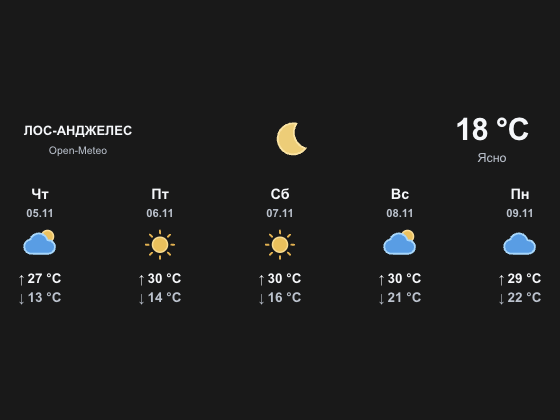
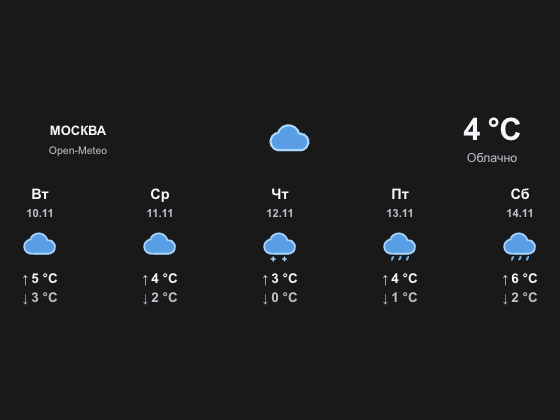
Update weather defaults and direct-view theme contrast

diff --git a/docs/school-planner/weather/index.html b/docs/school-planner/weather/index.html
@@ -7,9 +7,11 @@
   <title>Погода</title>
   <style>
     * { box-sizing: border-box; }
-    /* Night-only text, with a transparent iframe canvas rather than a black box. */
-    :root { color-scheme: normal; --ink: #f5f7fa; --muted: #bac3cf; }
+    /* The embed remains transparent. Direct visits supply their own matching background. */
+    :root { color-scheme: normal; --ink: #f5f7fa; --muted: #bac3cf; --standalone-bg: #191919; }
+    :root[data-theme="light"] { --ink: #262626; --muted: #59636e; --standalone-bg: #fff; }
     html, body { margin: 0; width: 100%; height: 100%; min-width: 0; overflow: hidden; background: transparent; }
+    html[data-standalone] { background-color: var(--standalone-bg); }
     body { color: var(--ink); font-family: Arial, Helvetica, sans-serif;
       -webkit-font-smoothing: antialiased; }
     .fit-viewport { position: fixed; inset: 0; padding: 12px 8px; overflow: hidden; }
@@ -74,10 +76,10 @@
     </defs>
   </svg>
   <div class="fit-viewport" data-fit-viewport>
-  <main class="weather" aria-label="Погода в Лос-Анджелесе" data-status="loading"
+  <main class="weather" aria-label="Погода: Москва" data-status="loading"
     data-fit-content data-fit-min-width="344" data-fit-fill-width>
     <div class="current">
-      <div class="location"><div class="city" data-city>Лос-Анджелес</div>
+      <div class="location"><div class="city" data-city>Москва</div>
         <a class="source" href="https://open-meteo.com/" target="_blank" rel="noopener noreferrer"
           title="Данные погоды: Open-Meteo · CC BY 4.0" aria-label="Данные погоды: Open-Meteo">Open-Meteo</a></div>
       <div class="current-icon" data-current-icon aria-hidden="true"></div>
@@ -90,9 +92,13 @@
   <script>
     // Set the natural width before the shared deferred fitting script runs.
     {
+      const params = new URLSearchParams(location.search);
+      const root = document.documentElement;
+      if (params.get('theme') === 'light') root.dataset.theme = 'light';
+      if (window.self === window.top) root.dataset.standalone = '';
       const host = document.querySelector('.weather');
-      const count = new URLSearchParams(location.search).get('forecast_days') === '7' ? 7 : 5;
-      if (count === 7) document.documentElement.dataset.sevenDay = '';
+      const count = params.get('forecast_days') === '7' ? 7 : 5;
+      if (count === 7) root.dataset.sevenDay = '';
       host.dataset.forecastDays = String(count);
       host.dataset.fitMinWidth = count === 7 ? '484' : '344';
       host.style.width = `${host.dataset.fitMinWidth}px`;
@@ -109,18 +115,15 @@
         const n = Number(params.get(key));
         return Number.isFinite(n) && n >= min && n <= max ? n : fallback;
       };
-      const latitude = coordinate('lat', 34.0522, -90, 90);
-      const longitude = coordinate('lon', -118.2437, -180, 180);
-      const city = (params.get('city') || 'Лос-Анджелес').trim().slice(0, 70) || 'Лос-Анджелес';
-      let timeZone = params.get('tz') || 'America/Los_Angeles';
-      try { new Intl.DateTimeFormat('ru', {timeZone}).format(); } catch { timeZone = 'America/Los_Angeles'; }
+      const defaultCity = 'Москва';
+      const defaultTimeZone = 'Europe/Moscow';
+      const latitude = coordinate('lat', 55.75204, -90, 90);
+      const longitude = coordinate('lon', 37.61781, -180, 180);
+      const city = (params.get('city') || defaultCity).trim().slice(0, 70) || defaultCity;
+      let timeZone = params.get('tz') || defaultTimeZone;
+      try { new Intl.DateTimeFormat('ru', {timeZone}).format(); } catch { timeZone = defaultTimeZone; }
       const host = document.querySelector('.weather');
       const forecastDays = Number(host.dataset.forecastDays);
-      if (params.get('theme') === 'light') {
-        host.style.setProperty('--ink', '#262626');
-        host.style.setProperty('--muted', '#666666');
-      }
-      host.style.color = 'var(--ink)';
       const currentIcon = document.querySelector('[data-current-icon]');
       const temperature = document.querySelector('[data-temperature]');
       const condition = document.querySelector('[data-condition]');

diff --git a/docs/catalog/README.md b/docs/catalog/README.md
@@ -1,6 +1,6 @@
 # Buildin 统一组件库
 
-更新：2026-11-06 · 55 个组件 · 40 项素材
+更新：2026-11-10 · 55 个组件 · 40 项素材
 
 [打开可搜索的图文目录](https://zhangleiye68-jpg.github.io/buildin-reference-widgets/catalog/) · [读取完整 JSON](components.json)
 
@@ -421,7 +421,7 @@ https://widgetbox.app/embed/calendar/simple/60788344-032d-4bad-b871-5832168828ae
 
 自制 · 可用 · 建议 560 × 420 px
 
-默认洛杉矶天气与五日预报，可按坐标和时区切换城市；保留原深色配置。
+默认显示莫斯科当前天气与摄氏五日预报，保留俄语、原布局和固定嵌入地址。
 
 [打开组件或素材](https://zhangleiye68-jpg.github.io/buildin-reference-widgets/school-planner/weather/?locale=ru&theme=dark&v=30) · [原始来源](https://github.com/zhangleiye68-jpg/buildin-reference-widgets/tree/main/docs/school-planner/weather/) · [源码](https://github.com/zhangleiye68-jpg/buildin-reference-widgets/tree/main/docs/school-planner/weather/)
 
@@ -431,10 +431,10 @@ https://widgetbox.app/embed/calendar/simple/60788344-032d-4bad-b871-5832168828ae
 https://zhangleiye68-jpg.github.io/buildin-reference-widgets/school-planner/weather/?locale=ru&theme=dark&v=30
 ```
 
-- 独立网页组件，不自动关联 Buildin 原生数据库。
-- 浅色文字与透明背景，适合深色模板；浅色页面需提供深色底色。
-- 已支持lat/lon/city/tz，forecast_days=7可选七日；默认五日保持。浅色页面用theme=light，窄栏七日另见weather-ru-seven-day。
-- 默认PNG为实际已加载的洛杉矶摄氏五日界面；透明深色专用组件的预览使用深色宿主。
+- 默认莫斯科。支持已有的 lat、lon、city、tz 链接配置，组件界面仅显示城市。
+- 嵌入时背景透明。theme=dark 用浅色字，theme=light 用深色字；直接打开时显示对应的深底或白底。
+- 默认五日。forecast_days=7 可选七日，窄栏布局见 weather-ru-seven-day。
+- 默认 PNG 是莫斯科实时天气加载后的黑夜版，未包含私人模板内容。
 
 许可：自制，可在本库复用
 

diff --git a/docs/school-planner/weather/README.md b/docs/school-planner/weather/README.md
@@ -2,7 +2,9 @@
 
 入口：<https://zhangleiye68-jpg.github.io/buildin-reference-widgets/school-planner/weather/>
 
-默认保留洛杉矶、摄氏、五日预报、浅色文字及透明底色。支持 `lat`、`lon`、`city`、`tz` 设置坐标、俄语城市显示名和 IANA 时区。`forecast_days=7` 启用七日，其他值维持五日；七日自然宽度 484px，整体随 iframe 等比缩放。`theme=light` 为浅色页面使用深色文字，`greyscale=1` 显示灰度天气图标。
+默认显示莫斯科的摄氏温度和五日预报。页面内没有城市选择器，现有 `lat`、`lon`、`city`、`tz` 配置链接继续可用。`forecast_days=7` 启用七日，其他值维持五日。七日自然宽度 484px，整体随 iframe 等比缩放。`greyscale=1` 显示灰度天气图标。
+
+原有 `theme=dark` 链接使用浅色文字，`theme=light` 使用深色文字。嵌入时两版都是透明背景，按宿主底色选用。直接打开时，组件使用与配色相配的深底或白底。字体、布局和图标共用同一套样式。
 
 七日模式在宽度不超过 220px 时改用纵向一列，保留全部七天，最窄支持 77px。窄栏需要更高的容器或在 iframe 内纵向滚动，不会把全部内容缩成微小文字；默认五日模式保持原有布局。
 

diff --git a/README.md b/README.md
@@ -59,4 +59,4 @@ python3 scripts/validate_catalog.py
 
 新增组件同时提供默认状态 PNG 预览；预览不得包含私人模板、账号资料或个人保存的计数。页面可达和预览加载不代表所有交互都已测试，功能验证范围应写入条目。保留现有组件路径；仅调整目录不会修改已使用的 Buildin 页面。
 
-目录更新：2026-11-06。
+目录更新：2026-11-10。
